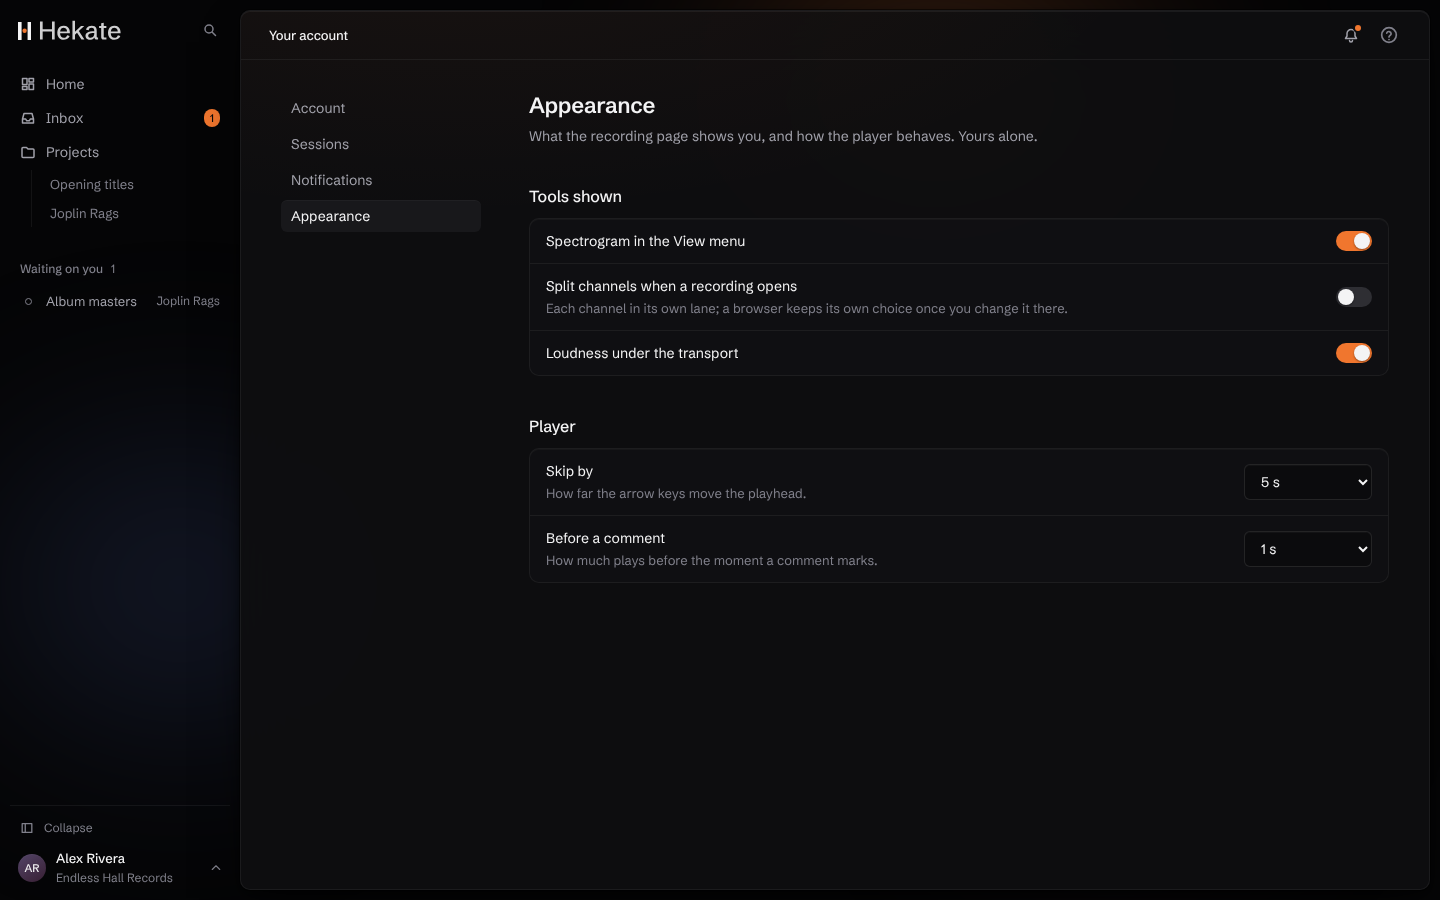
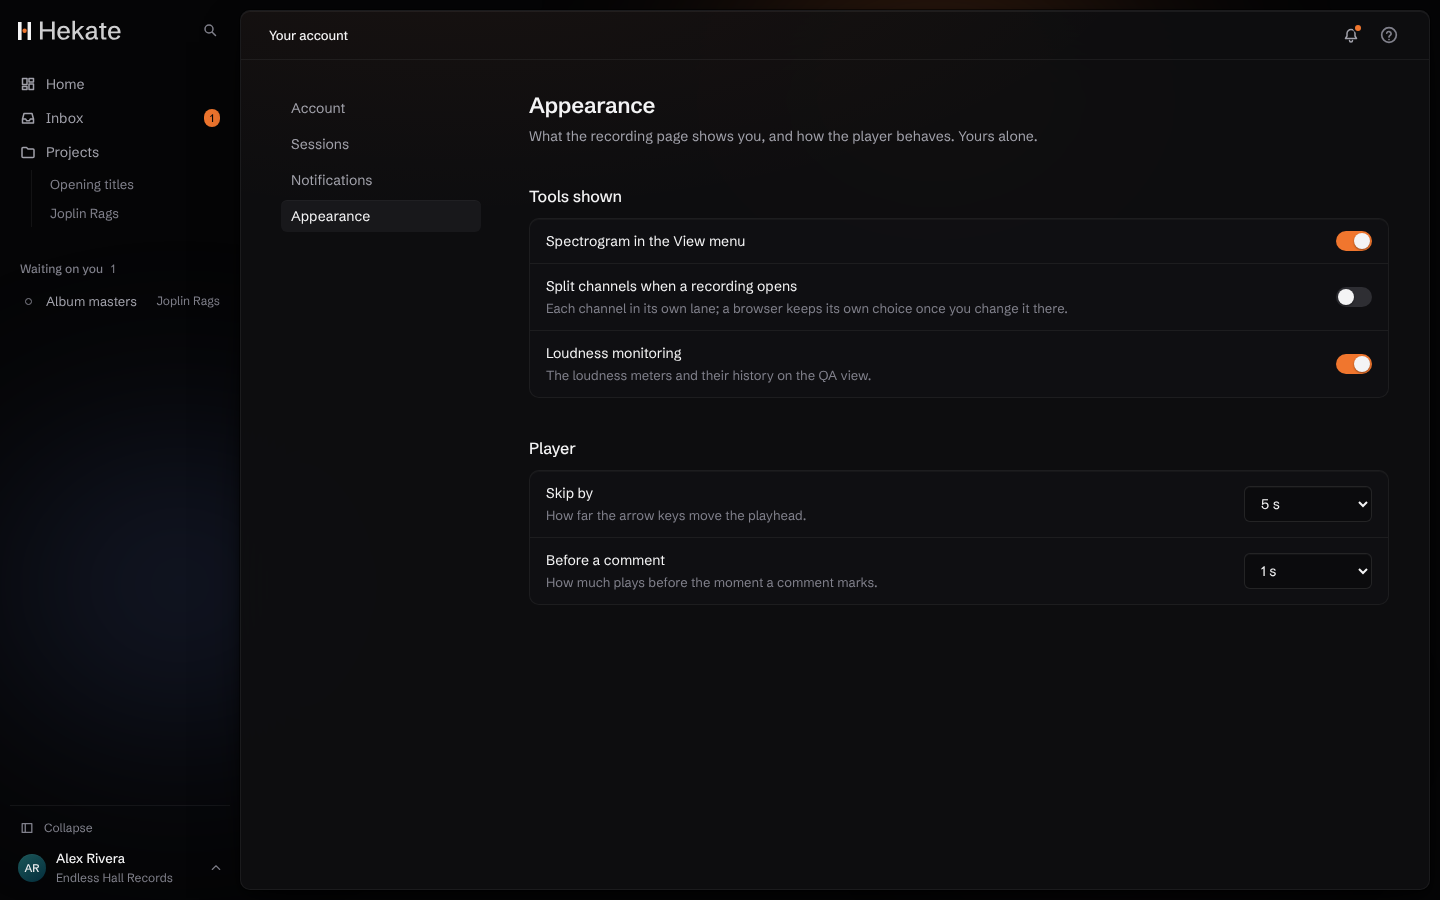
fix(web): dates follow the member's language and time zone; loudness gates its panel
- Every date and relative time is formatted through one module that uses
  the language and time zone chosen in Account, or the browser's; the page
  redraws when either changes.
- The loudness preference shows or hides the loudness meters on the QA
  view, and leaves the QA summary alone.

Part of #116

Claude-Session: https://claude.ai/code/session_015McpuV22robxh4tHA5c4P8

diff --git a/apps/web/src/lib/locale.ts b/apps/web/src/lib/locale.ts
@@ -1,0 +1,53 @@
+/**
+ * Dates and numbers as the member reads them: their language and time zone when they chose
+ * them (Account), otherwise the browser's. Formatters are made on first use and remade when
+ * the choice changes, so modules can hold one as a constant and call `.format` as with Intl.
+ */
+let current: { locale: string | undefined; timeZone: string | undefined } = {
+  locale: undefined,
+  timeZone: undefined,
+};
+let generation = 0;
+
+/** Set by the shell once the member is known; null or undefined follows the browser. */
+export function setLocale(locale?: string | null, timeZone?: string | null) {
+  const next = { locale: locale ?? undefined, timeZone: timeZone ?? undefined };
+  if (next.locale === current.locale && next.timeZone === current.timeZone) return;
+  current = next;
+  generation += 1;
+}
+
+/** A key that changes with the member's language and time zone, to redraw what shows dates. */
+export const localeKey = () => `${current.locale ?? ""}|${current.timeZone ?? ""}`;
+
+/** As `new Intl.DateTimeFormat(locale, options)`, in the member's language and time zone. */
+export function formatDates(options: Intl.DateTimeFormatOptions) {
+  let made: Intl.DateTimeFormat | null = null;
+  let madeIn = -1;
+  const get = () => {
+    if (!made || madeIn !== generation) {
+      made = new Intl.DateTimeFormat(current.locale, { ...options, timeZone: current.timeZone });
+      madeIn = generation;
+    }
+    return made;
+  };
+  return {
+    format: (date?: Date | number) => get().format(date),
+    formatRange: (a: Date | number, b: Date | number) => get().formatRange(a, b),
+  };
+}
+
+/** As `new Intl.RelativeTimeFormat(locale, options)`, in the member's language. */
+export function relativeFormat(options: Intl.RelativeTimeFormatOptions) {
+  let made: Intl.RelativeTimeFormat | null = null;
+  let madeIn = -1;
+  return {
+    format: (value: number, unit: Intl.RelativeTimeFormatUnit) => {
+      if (!made || madeIn !== generation) {
+        made = new Intl.RelativeTimeFormat(current.locale, options);
+        madeIn = generation;
+      }
+      return made.format(value, unit);
+    },
+  };
+}

diff --git a/apps/web/src/components/shell.tsx b/apps/web/src/components/shell.tsx
@@ -1,6 +1,6 @@
 import { useQuery, useQueryClient } from "@tanstack/react-query";
 import { Link, useLocation, useNavigate } from "@tanstack/react-router";
-import { type ReactNode, useCallback, useEffect, useRef, useState } from "react";
+import { Fragment, type ReactNode, useCallback, useEffect, useRef, useState } from "react";
 import { Avatar } from "~/components/avatar";
 import { Lockup, Mark } from "~/components/brand";
 import { CommandPalette } from "~/components/command-palette";
@@ -15,6 +15,7 @@ import { authClient } from "~/lib/auth";
 import { cn } from "~/lib/cn";
 import { inField } from "~/lib/dom";
 import { docsUrl } from "~/lib/links";
+import { localeKey, setLocale } from "~/lib/locale";
 import {
   fileQuery,
   type MyReview,
@@ -453,6 +454,10 @@ function TopBar({
 }
 
 export function Shell({ children }: { children: ReactNode }) {
+  const { data: signedIn } = useQuery(meQuery);
+  // Dates and numbers in the member's language and time zone; the page redraws if they change.
+  setLocale(signedIn?.user.locale, signedIn?.user.timeZone);
+  const page = <Fragment key={localeKey()}>{children}</Fragment>;
   const [collapsed, setCollapsed] = useCollapsed();
   const [slots, onTrail, onActions] = useHeaderSlots();
   const { data: reviews } = useQuery(myReviewsQuery);
@@ -665,7 +670,7 @@ export function Shell({ children }: { children: ReactNode }) {
                 ))}
               </nav>
             )}
-            <main className="scroll-quiet min-h-0 min-w-0 flex-1 overflow-auto">{children}</main>
+            <main className="scroll-quiet min-h-0 min-w-0 flex-1 overflow-auto">{page}</main>
           </HeaderSlotsProvider>
           <nav
             aria-label="Main"

diff --git a/apps/web/src/components/comments.tsx b/apps/web/src/components/comments.tsx
@@ -13,6 +13,7 @@ import { useQuery } from "@tanstack/react-query";
 import { type FormEvent, type KeyboardEvent, useEffect, useId, useRef, useState } from "react";
 import { cn } from "~/lib/cn";
 import { ago, historyLabel, passageLoop, type Thread, threadsOf } from "~/lib/comments";
+import { formatDates } from "~/lib/locale";
 import { type Loop, MIN_LOOP } from "~/lib/loop";
 import { isWholePage, type PageFocus } from "~/lib/pages";
 import {
@@ -28,6 +29,8 @@ import { useViewer } from "~/lib/viewer";
 import type { RegionMarker } from "./document-viewer";
 import { Button } from "./ui/button";
 import { ActionMenu } from "./ui/menu";
+
+const fullTime = formatDates({ dateStyle: "medium", timeStyle: "short" });
 
 /** Lowercase time labels read better inline than the upper-case anchor labels on markers. */
 // "00:12.500" reads as "0:12.500", at either end of a range.
@@ -165,7 +168,7 @@ function CommentBody({
             {comment.authorLabel ? `${comment.authorLabel}, guest` : "Guest"}
           </span>
         )}
-        <span className="text-ink-3" title={new Date(comment.createdAt).toLocaleString("en-GB")}>
+        <span className="text-ink-3" title={fullTime.format(new Date(comment.createdAt))}>
           {ago(comment.createdAt)}
           {comment.editedAt && " · edited"}
         </span>

diff --git a/apps/web/src/routes/file.tsx b/apps/web/src/routes/file.tsx
@@ -28,6 +28,7 @@ import { ScorePane } from "~/components/score";
 import { FileContext } from "~/components/tracks";
 import { Button } from "~/components/ui/button";
 import { cn } from "~/lib/cn";
+import { formatDates } from "~/lib/locale";
 import type { Loop } from "~/lib/loop";
 import { initialFocus, type PageFocus } from "~/lib/pages";
 import {
@@ -41,7 +42,7 @@ import {
 } from "~/lib/queries";
 import { useViewer } from "~/lib/viewer";
 
-const dateFormat = new Intl.DateTimeFormat("en-GB", {
+const dateFormat = formatDates({
   day: "numeric",
   month: "long",
   year: "numeric",
@@ -338,7 +339,7 @@ export function FilePage({
               pages={pages}
               canComment={canComment}
             />
-            {shown === "review" && hasQa && preferences.showLoudness && (
+            {shown === "review" && hasQa && (
               <QaSummary fileId={file.id} onOpen={() => onView("qa")} />
             )}
           </div>
@@ -391,7 +392,7 @@ export function FilePage({
                 media={media}
                 canChoose={!guest && can("edit_workflows")}
               />
-              {file.mediaInfo?.audio && (
+              {file.mediaInfo?.audio && preferences.showLoudness && (
                 <Loudness
                   fileId={file.id}
                   media={media}

diff --git a/apps/web/src/components/file-details.tsx b/apps/web/src/components/file-details.tsx
@@ -3,6 +3,7 @@ import { useInfiniteQuery, useQuery, useQueryClient } from "@tanstack/react-quer
 import { Link, useNavigate } from "@tanstack/react-router";
 import { type ReactNode, useEffect, useState } from "react";
 import { actionCopy } from "~/lib/access-log";
+import { formatDates } from "~/lib/locale";
 import {
   accessLogQuery,
   type FileDetails,
@@ -21,15 +22,15 @@ import { Button } from "./ui/button";
 import { Select } from "./ui/input";
 import { StatusDot } from "./ui/status";
 
-const dateTime = new Intl.DateTimeFormat("en-GB", {
+const dateTime = formatDates({
   day: "numeric",
   month: "short",
   year: "numeric",
   hour: "2-digit",
   minute: "2-digit",
 });
-const shortDate = new Intl.DateTimeFormat("en-GB", { day: "numeric", month: "short" });
-const logTime = new Intl.DateTimeFormat("en-GB", {
+const shortDate = formatDates({ day: "numeric", month: "short" });
+const logTime = formatDates({
   day: "numeric",
   month: "short",
   hour: "2-digit",

diff --git a/apps/web/src/lib/locale.test.ts b/apps/web/src/lib/locale.test.ts
@@ -1,0 +1,23 @@
+import { afterEach, describe, expect, it } from "vitest";
+import { formatDates, localeKey, relativeFormat, setLocale } from "./locale";
+
+const moment = new Date("2026-10-14T23:30:00Z");
+
+describe("dates as the member reads them", () => {
+  afterEach(() => setLocale(null, null));
+
+  it("follows the language and time zone chosen, and changes when they do", () => {
+    const day = formatDates({ day: "numeric", month: "short" });
+    setLocale("en-GB", "UTC");
+    expect(day.format(moment)).toBe("14 Oct");
+    // The same moment is already the 15th in Tokyo, and reads month first in American English.
+    setLocale("en-US", "Asia/Tokyo");
+    expect(day.format(moment)).toBe("Oct 15");
+    expect(localeKey()).toBe("en-US|Asia/Tokyo");
+  });
+
+  it("words relative times in the chosen language", () => {
+    setLocale("de-DE", null);
+    expect(relativeFormat({ numeric: "auto" }).format(-1, "day")).toBe("gestern");
+  });
+});

diff --git a/apps/web/src/routes/home.tsx b/apps/web/src/routes/home.tsx
@@ -13,18 +13,19 @@ import { Dialog } from "~/components/ui/dialog";
 import { StatusDot } from "~/components/ui/status";
 import { cn } from "~/lib/cn";
 import { type Attention, attentionFor, deadlinesOf, dueIn, figures, greeting } from "~/lib/home";
+import { formatDates } from "~/lib/locale";
 import { homeQuery, type MyReview, meQuery, myReviewsQuery } from "~/lib/queries";
 import { NewProject } from "~/routes/projects";
 
 /** Shown on the page at most; the rest wait in the reviews list. */
 const ATTENTION_SHOWN = 6;
 
-const dayFormat = new Intl.DateTimeFormat("en-GB", {
+const dayFormat = formatDates({
   weekday: "long",
   day: "numeric",
   month: "long",
 });
-const monthFormat = new Intl.DateTimeFormat("en-GB", { month: "short" });
+const monthFormat = formatDates({ month: "short" });
 
 const rowClass =
   "group flex items-center gap-3.5 rounded-panel px-3 py-2.5 transition-colors hover:bg-raised/60 focus-visible:bg-raised/60";

diff --git a/apps/web/src/routes/review.tsx b/apps/web/src/routes/review.tsx
@@ -9,17 +9,18 @@ import { Button } from "~/components/ui/button";
 import { ActionMenu } from "~/components/ui/menu";
 import { StatusPill } from "~/components/ui/status";
 import { cn } from "~/lib/cn";
+import { formatDates } from "~/lib/locale";
 import { permissionSummary } from "~/lib/permissions";
 import { projectQuery, type ReviewDetail, reviewQuery, useReviewActions } from "~/lib/queries";
 import { useViewer } from "~/lib/viewer";
 
-const dateTime = new Intl.DateTimeFormat("en-GB", {
+const dateTime = formatDates({
   day: "numeric",
   month: "short",
   hour: "2-digit",
   minute: "2-digit",
 });
-const day = new Intl.DateTimeFormat("en-GB", { day: "numeric", month: "long", year: "numeric" });
+const day = formatDates({ day: "numeric", month: "long", year: "numeric" });
 
 const stateCopy: Record<ReviewDetail["reviewers"][number]["state"], string> = {
   waiting: "Waiting their turn",

diff --git a/apps/web/src/routes/workspace-settings.tsx b/apps/web/src/routes/workspace-settings.tsx
@@ -11,6 +11,7 @@ import { Input, Select } from "~/components/ui/input";
 import { ActionMenu } from "~/components/ui/menu";
 import { actionCopy } from "~/lib/access-log";
 import { shortAgent } from "~/lib/agent";
+import { formatDates } from "~/lib/locale";
 import {
   type AccessEvent,
   accessLogQuery,
@@ -30,8 +31,8 @@ type Role = Member["role"];
 const roleLabel: Record<Role, string> = { owner: "Owner", admin: "Admin", member: "Member" };
 const roles: Role[] = ["owner", "admin", "member"];
 
-const dateFormat = new Intl.DateTimeFormat("en-GB", { day: "numeric", month: "short" });
-const timeFormat = new Intl.DateTimeFormat("en-GB", {
+const dateFormat = formatDates({ day: "numeric", month: "short" });
+const timeFormat = formatDates({
   day: "numeric",
   month: "short",
   hour: "2-digit",

diff --git a/apps/web/src/components/reviews.tsx b/apps/web/src/components/reviews.tsx
@@ -3,6 +3,7 @@ import { useQuery } from "@tanstack/react-query";
 import { Link, useNavigate } from "@tanstack/react-router";
 import { type FormEvent, type ReactNode, useState } from "react";
 import { cn } from "~/lib/cn";
+import { formatDates } from "~/lib/locale";
 import {
   projectFilesQuery,
   projectGroupsQuery,
@@ -18,7 +19,7 @@ import { GuestFields } from "./guest-fields";
 import { Button } from "./ui/button";
 import { type ReviewState, StatusPill } from "./ui/status";
 
-const dateFormat = new Intl.DateTimeFormat("en-GB", { day: "numeric", month: "short" });
+const dateFormat = formatDates({ day: "numeric", month: "short" });
 
 /** A review's status as the pill shows it. */
 export function reviewState(review: Pick<ReviewSummary, "status" | "outcome">): ReviewState {

diff --git a/apps/web/src/components/tracks.tsx b/apps/web/src/components/tracks.tsx
@@ -3,6 +3,7 @@ import { useQuery } from "@tanstack/react-query";
 import { Link } from "@tanstack/react-router";
 import { type FormEvent, useId, useState } from "react";
 import { cn } from "~/lib/cn";
+import { formatDates } from "~/lib/locale";
 import {
   type FileDetail,
   projectFilesQuery,
@@ -16,7 +17,7 @@ import {
 import { Icon } from "./icons";
 import { Button } from "./ui/button";
 
-const dateFormat = new Intl.DateTimeFormat("en-GB", { day: "numeric", month: "short" });
+const dateFormat = formatDates({ day: "numeric", month: "short" });
 
 /** "Version 3 · Dry, Wet" for a track's latest version. */
 function latestLabel(track: Track): string {

diff --git a/apps/web/src/routes/guest.tsx b/apps/web/src/routes/guest.tsx
@@ -7,10 +7,11 @@ import { reviewState } from "~/components/reviews";
 import { GuestFrame } from "~/components/shell";
 import { Button } from "~/components/ui/button";
 import { StatusPill } from "~/components/ui/status";
+import { formatDates } from "~/lib/locale";
 import { accessNote } from "~/lib/permissions";
 import { guestMeQuery, useGuestSignIn, useGuestSignOut } from "~/lib/queries";
 
-const day = new Intl.DateTimeFormat("en-GB", { day: "numeric", month: "long" });
+const day = formatDates({ day: "numeric", month: "long" });
 
 function Centred({ children }: { children: ReactNode }) {
   return (
